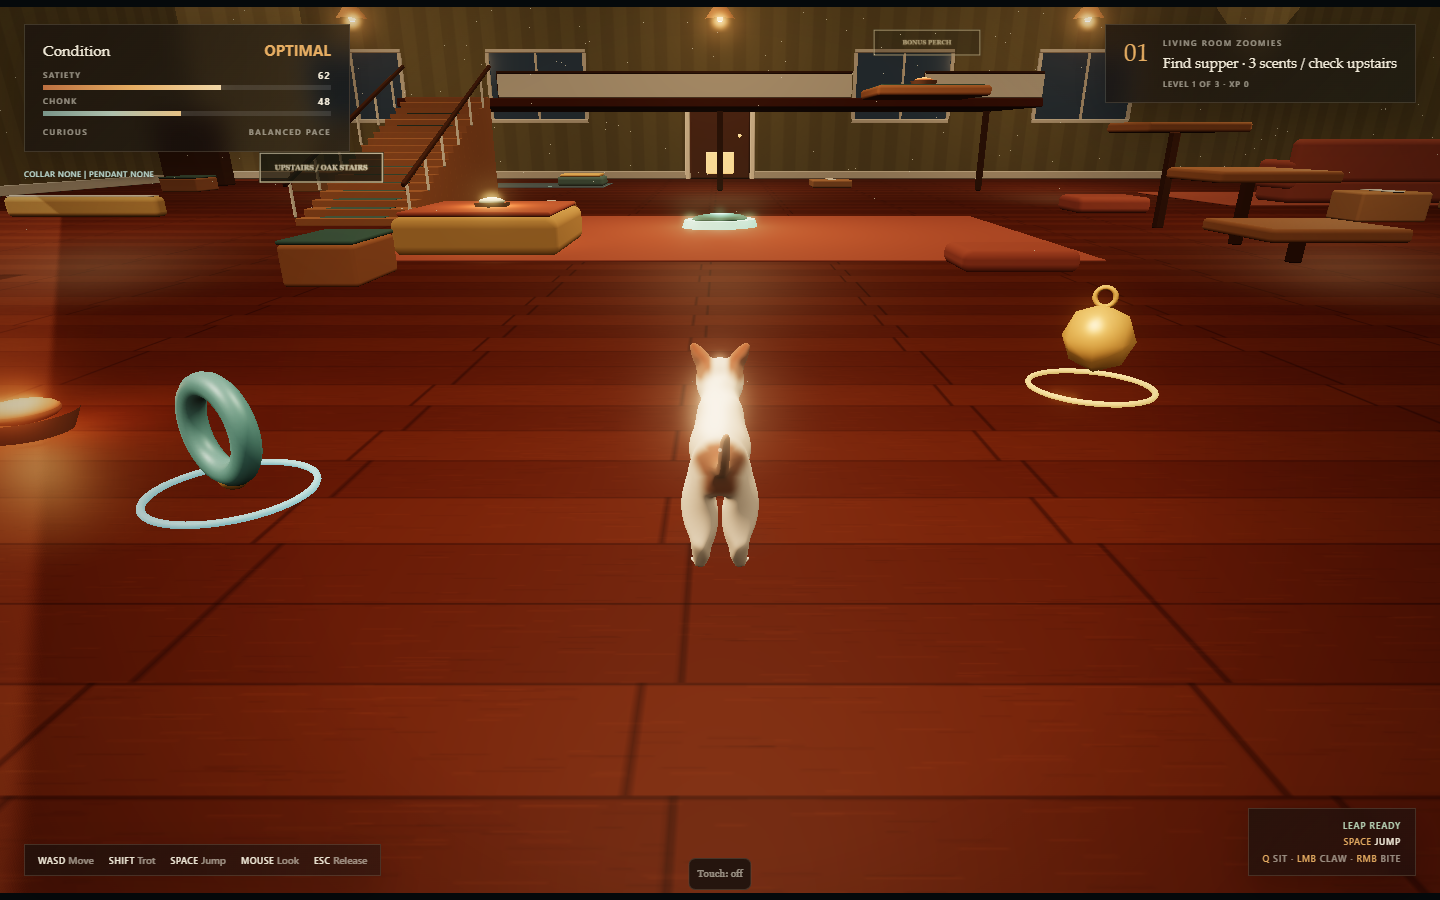
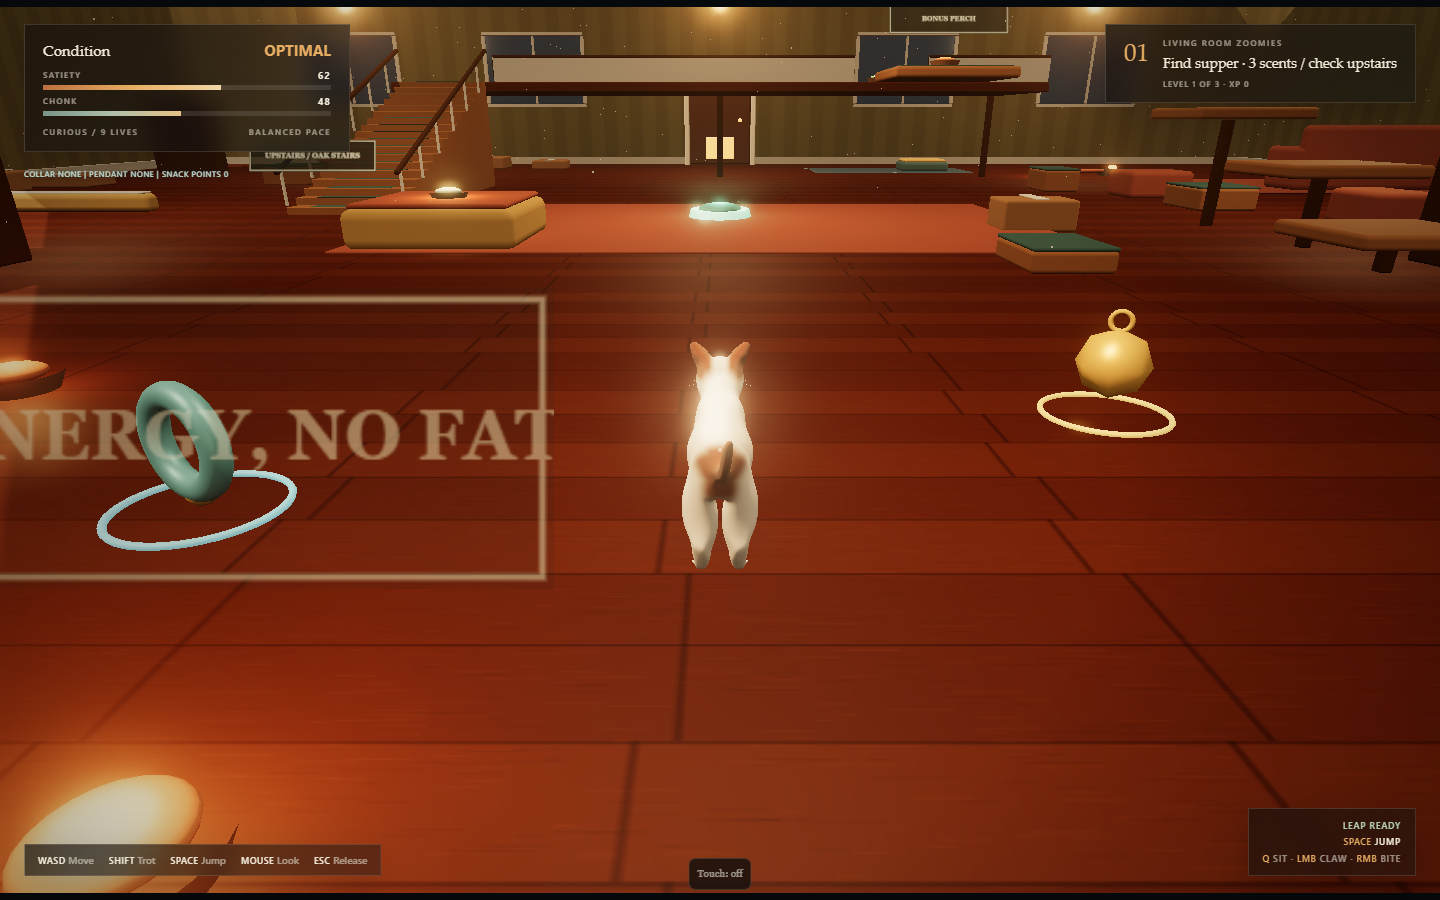
Record live appetite release verification and captures

diff --git a/MEMORY.md b/MEMORY.md
@@ -7,10 +7,11 @@ deployment status feed.
 
 ## Resume Here
 
-- Latest implemented request: longer average leaps, continuous interruptible eating, meaningful energy/weight, optional point-bearing fattening snacks, starvation life loss, narrow passages, heavy pressure plates and a safe trim/refeed loop. User explicitly requested auto-push. Balance and test boundaries: [condition system](docs/condition-system.md). Release evidence is pending the push/live check below, not implied by local test success.
+- Latest released request: longer average leaps, continuous interruptible eating, meaningful energy/weight, optional point-bearing fattening snacks, starvation life loss, narrow passages, heavy pressure plates and a safe trim/refeed loop. User explicitly requested auto-push. Balance and test boundaries: [condition system](docs/condition-system.md).
+- Published gameplay as `c401b65`. Pages workflow `38948118700` completed successfully and the public manifest matched `c401b650238575b5dc795247b1b7471282b20cd6`, with 33 runtime files. Hosted Pages, condition integration, mobile (including boss loss/retry/victory) and camera suites all passed without browser errors. Live sprint range was 5.276 normal versus 2.416 heavy, and 110 earned snack points survived reload. The follow-up changes only handoff evidence/captures, not runtime code.
 - Required suppers are separate from optional food: +8 energy/+0.8 chonk, capped at 80 energy. Rich snacks/food drops give +10 energy/+9 chonk/+25 browser-saved points; bonus stashes give +60 points/+3 chonk. No spending UI yet. Starting condition remains 62/48. Warnings and six seconds at zero spend a life, drop the pendant and safely restore energy; room nine-life continue retains meal progress. The boss keeps its own nine-life fight.
 - Every room now has optional 60-max slim entry, 64-min latched pressure plate, scratch post (-4 chonk/-1.5 energy per claw) and no-fat recovery food. Refills and occupant-safe exits prevent body-puzzle softlocks. Runtime torso morph and variable capsule radius make weight visible/physical; canonical model and open Blender scene are untouched.
-- Condition pure/browser tests, smoke, 90 layouts, adventure, vertical, camera, phone layout/input, visual-cat and local Pages passed. Full keyboard campaign seeds 424242/765432 each completed 12 suppers + boss, 850 XP, no deaths/bonks, 6/5 jumps. Actual isolated sprint jumps measured about 5.28 normal vs 2.41 heavy. Physical phones/Safari and human balance feedback remain outstanding. One first mobile run stalled; a fresh bounded run passed, so do not count the stalled run as a pass.
+- Condition pure/browser tests, smoke, 90 layouts, adventure, vertical, camera, phone layout/input, visual-cat and local Pages passed. Both full keyboard campaign seeds were repeated after final polish: 424242/765432 each completed 12 suppers + boss, 850 XP, no deaths/bonks, latest 6/4 jumps (earlier 765432 run used 5). Physical phones/Safari and human balance feedback remain outstanding. One first mobile run stalled; fresh bounded local and hosted runs passed, so do not count the stalled run as a pass. A Pages CDP large-response-body eviction was handled in the test with an explicit served-asset hash fallback; packaging/model hashes still must match.
 - Previous released request: fair generated jump obstacles, a reusable vacuum boss after room three, persistent accessories, and enemies with guaranteed drops. The adventure implementation is described in [adventure system](docs/adventure-system.md).
 - The third pet door now starts the vacuum encounter instead of completing the run. Claw the rear filter; front suction costs one of nine lives. Retry after nine losses resets only the fight. The boss remains winnable without equipment.
 - Room-tier collars add pace and survive combat deaths; pendants add claw damage/hunger efficiency and are lost on combat death. Both persist across rooms for the current run. Optional clockwork mice warn/pounce and drop a snack or pendant on defeat. Ordinary environmental bumps remain nonlethal.
@@ -85,6 +86,7 @@ fully random building generator. Floors and collision bounds are world-space.
 | `39d9265` | Mobile joystick/look/actions, responsive phone layouts, lifecycle cleanup, automated touch verification; deployed and tested live |
 | `3c9260e` | Successful live mobile/camera/Pages verification evidence and refreshed captures; same runtime as `39d9265` |
 | `74b013e` | Vacuum finale, equipment/death/loot, clockwork enemies, shared fair-jump planning, combat tests and contributor guidance; deployed and checked live |
+| `c401b65` | Longer jumps, continuous eating, appetite/weight balance, snack wallet, starvation lives, optional slim/weight trials and runtime body morph; deployed and checked live |
 
 Mouse regression details: old code directly applied every `movementX/Y` event;
 an oversized sample rotated yaw by -28.2 radians. A small furniture-corner orbit

diff --git a/docs/condition-system.md b/docs/condition-system.md
@@ -52,7 +52,7 @@ Tested locally on 2026-10-17 using headless Microsoft Edge/Playwright:
 | Condition browser integration | Passed interpolated eating head motion, immediate movement interruption, proportional partial bites, no duplicate awards, two-snack plate activation, objective separation, fat-blocked slim entry, lean entry, safe post-reward exit, latched plate, scratch workout, lean feeding/refill, starvation/charm loss/recovery, nine-life continue and reload persistence |
 | Actual flat-ground sprint jumps | Approximately 5.28 units at 58 satiety/48 chonk versus 2.41 at 58/84; isolated clear-lane scenario starts, normal keyboard movement/physics |
 | Campaign seed 424242 | All 12 meals and boss, 850 XP, 6 jumps, no deaths/bonks; keyboard autoplay from spawn, no objective teleports/condition injection |
-| Campaign seed 765432 | All 12 meals and boss, 850 XP, 5 jumps, no deaths/bonks; same full-run boundaries |
+| Campaign seed 765432 | All 12 meals and boss, 850 XP, 4 jumps on final rerun (5 earlier), no deaths/bonks; same full-run boundaries |
 | Generated layouts | 90 passed, all three rooms, counts 25/30/37, protected routes/hazards/enemies and moving-platform carry |
 | Adventure | Equipment, rich enemy loot, deaths, conservative hurdle clearance, nine boss losses/retry and no-equipment keyboard victory passed |
 | Vertical routes | All stairs, hungry/heavy stairs, failed unboosted shortcut, successful boosted perch/descending shelves, expiry and gallery underside passed |
@@ -66,10 +66,25 @@ after its boss-layout captures; a fresh bounded-timeout run passed the entire
 suite. Physical Android/iPhone Safari and human balance playtesting remain
 outstanding. Automated checks are not a claim of AAA art or hardware performance.
 
+Both campaign seeds were repeated after final polish. The Pages verifier now
+handles Chromium/CDP eviction of a large response body with an explicit fetch
+and the same manifest/local-model hash checks, rather than an unhandled promise.
+
 The canonical GLB and Blender project were not regenerated or changed. Existing
 visual-cat sampling passed floor contact and all source animation poses; lean
 and heavy runtime captures were also reviewed. Deployment evidence is recorded
 in `MEMORY.md` after the authorized push and live checks.
+
+Gameplay commit `c401b650238575b5dc795247b1b7471282b20cd6` deployed successfully
+through [Pages run 38948118700](https://github.com/desmondttm123/MegaChonk/actions/runs/38948118700).
+The public manifest matched that revision and contained 33 runtime files.
+Hosted Pages, condition integration, phone controls/layouts and mouse camera
+checks passed with no browser errors. The live condition test measured 5.276
+units for a normal sprint jump and 2.416 when heavy, earned weight through two
+snacks to open the plate, and verified 110 banked points after reload. Boss
+loss/retry/victory were also exercised through touch controls; these were
+isolated boss scenarios, not a claim of a full hosted campaign. The evidence
+follow-up changes notes/captures only.
 
 ## Extension Points
 
